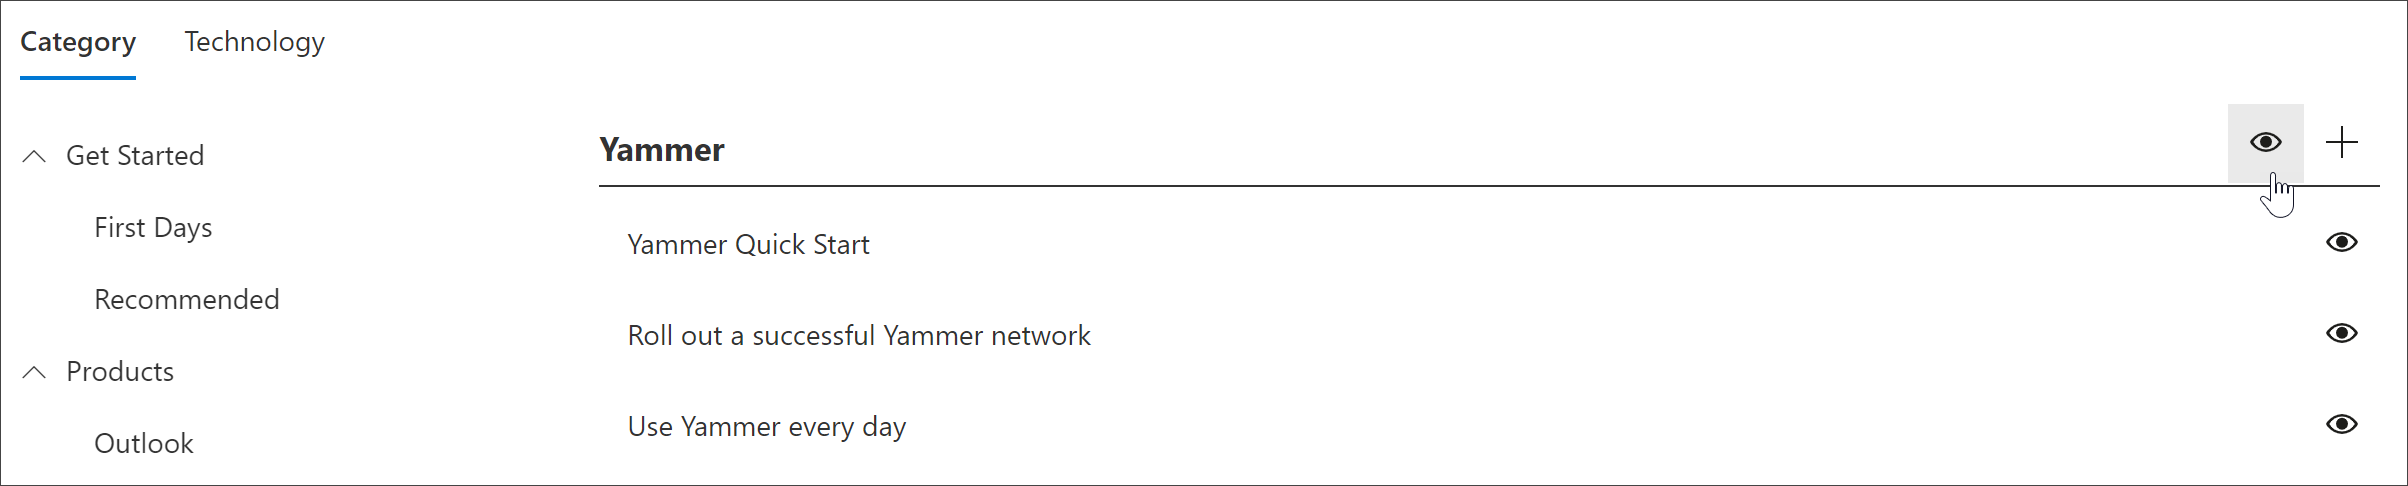
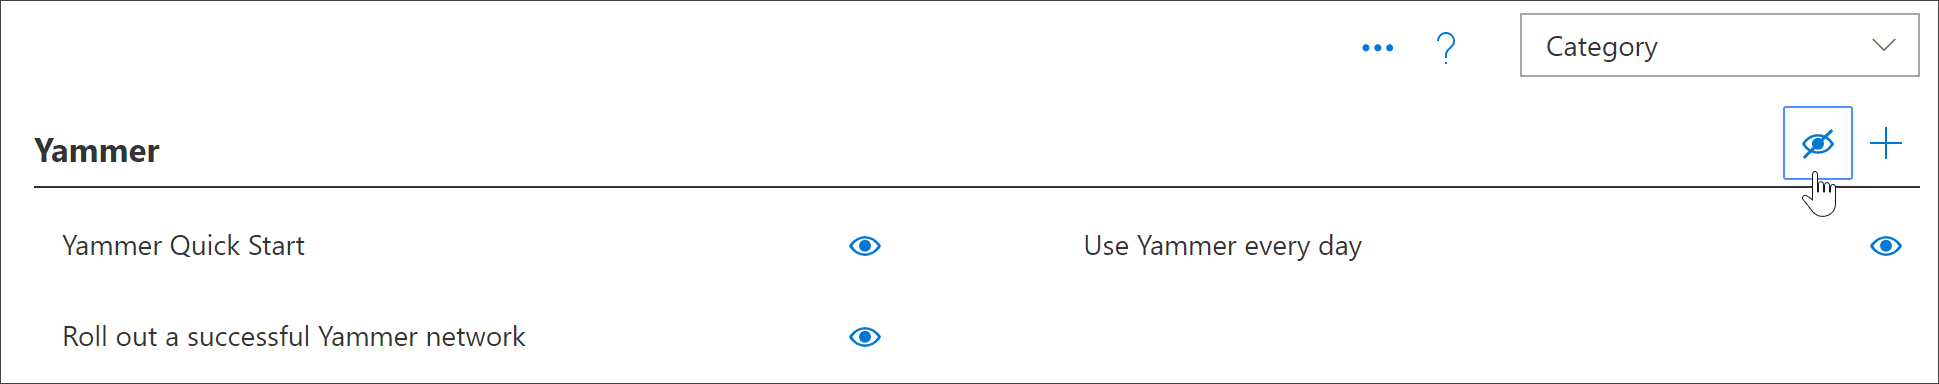
updated artwork and instructions for hide-show

diff --git a/CustomLearning/custom_hideshowsub.md b/CustomLearning/custom_hideshowsub.md
@@ -8,13 +8,13 @@ description: How to hide, show, edit, and delete subcategories
 
 # Hide and show Subcategories
 
-With Microsoft Learning Administration, you can hide and show subcategories. For example, companies that don’t roll out Yammer can hide the Yammer subcategory, so Yammer content won't be available to users. This prevents unwanted support calls from users who might otherwise see information related to services that aren't available in your organization.
+With the learning pathways administration page, you can hide and show subcategories of content. For example, companies that don’t roll out Yammer can hide the Yammer subcategory, so Yammer content won't be visible to users. This prevents unwanted support calls from users who might otherwise see information related to services that aren't available in your organization.
 
 ## Hide a subcategory 
 
-1. From the Microsoft 365 learning pathways Home page, click the **Recommended** tile.
-2. From the Microsoft 365 learning pathways Web part, select the System menu, then select **Administer Playlist**. You should now have two tabs open: One with the **Custom Learning Administration** page, and one with the **Microsoft 365 training** page. 
-3. From the **Custom Learning Administration** page, under **Category**, select a subcategory, and then select the eyeball for the subcategory to hide it. For this example, hide the **Yammer** subcategory.  
+1. From the Microsoft 365 learning pathways Home page, click the Microsoft 365 training tile.
+2. From the Microsoft 365 learning pathways Web part, click the Administration icon. 
+3. In the left pane of the page, select a subcategory, and then select the eyeball for the subcategory to hide it. For this example, hide the **Yammer** subcategory.  
 
 ![cg-hidesubcat.png](media/cg-hidesubcat.png)
 
@@ -25,4 +25,4 @@ With Microsoft Learning Administration, you can hide and show subcategories. For
 
 ## Unhide a subcategory 
 
-- From the **Custom Learning Administration** page, under **Category**, select a subcategory, and then select the eyeball for the hidden subcategory to unhide it. For this example, unhide the Yammer subcategory.
+- From the **Administration** page, select a subcategory, and then select the eyeball for the hidden subcategory to unhide it. For this example, unhide the Yammer subcategory.
